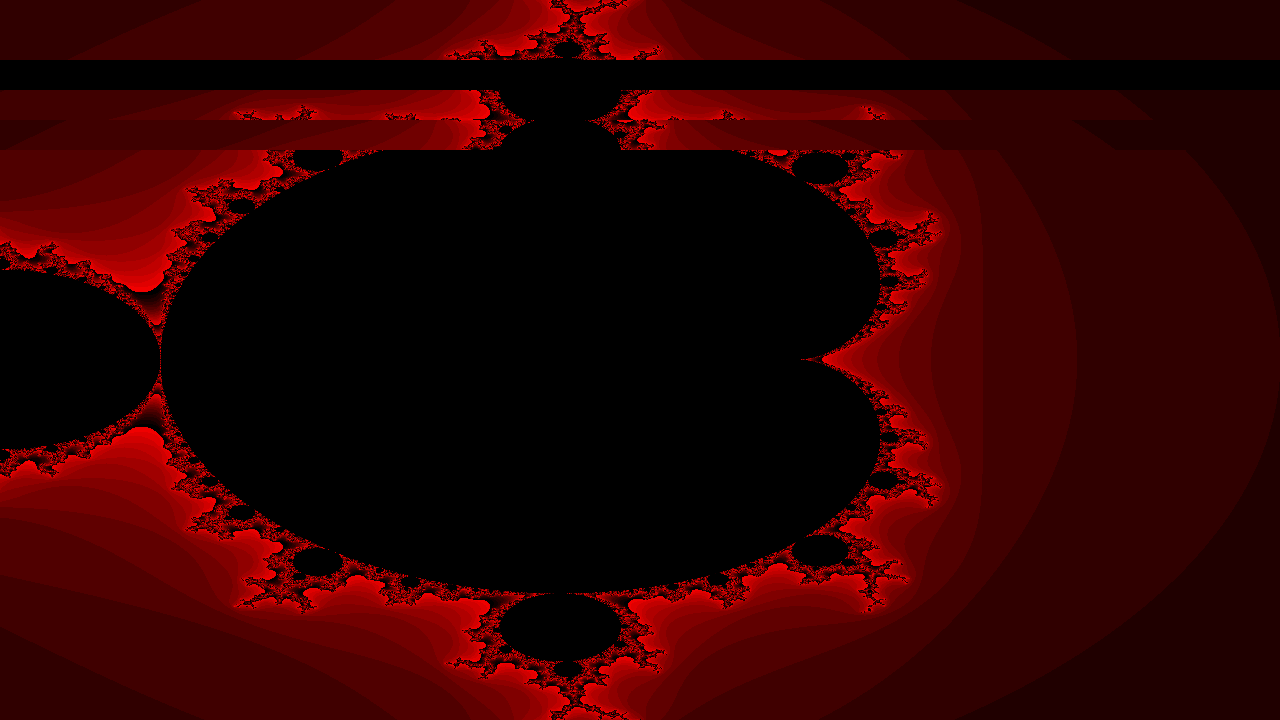
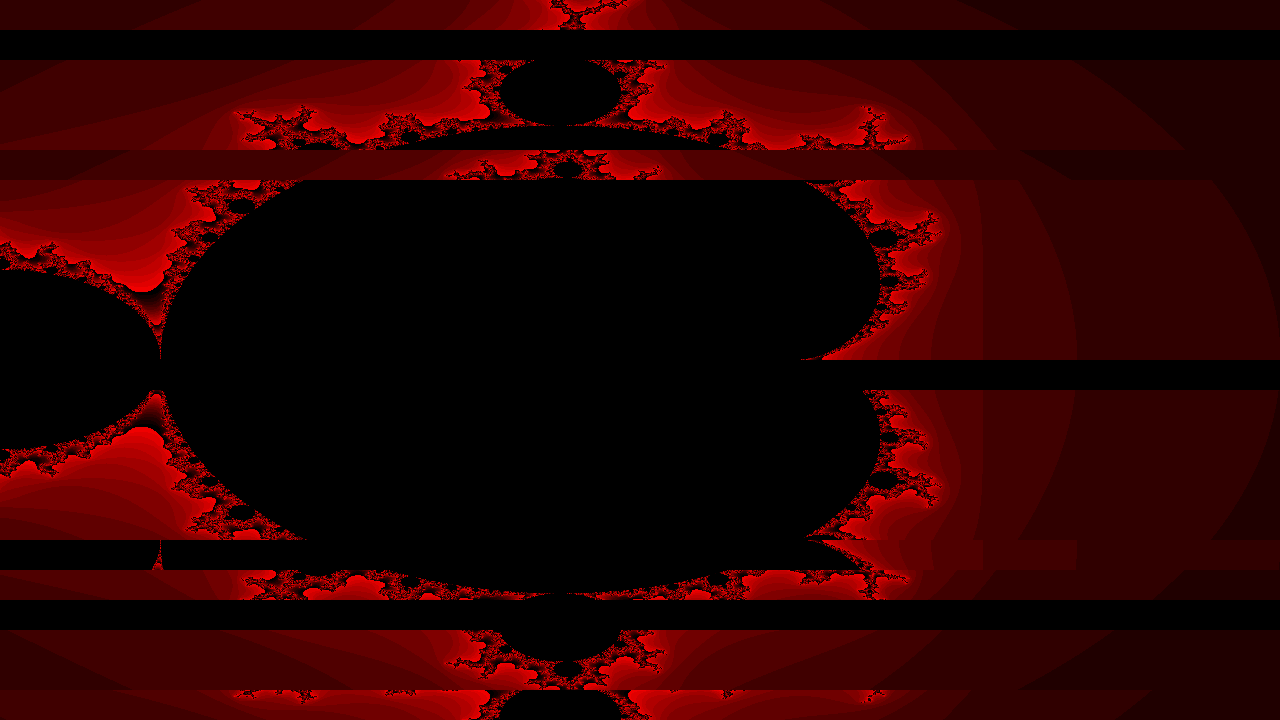
bugs

diff --git a/ms_hybrid.c b/ms_hybrid.c
@@ -46,7 +46,7 @@ double left, right;
 double lower, upper;
 int width, height;
 char* filename;
-unsigned char* line_png;
+png_bytep line_png;
 
 void write_png(const char* filename, const int width, const int height, const int* buffer) {
     FILE* fp = fopen(filename, "wb");
@@ -181,8 +181,8 @@ inline void worker(){
 
 // tag = 1: task signal
 // tag = -1: end signal
-inline void manager(){
-    int *image = (int*)malloc(width * height * sizeof(int));
+inline void manager(int *image){
+    //int *image = (int*)malloc(width * height * sizeof(int));
     int *worker_list = (int*)malloc(world_size*2 * sizeof(int));
 
     assert(image);
@@ -261,9 +261,9 @@ inline void manager(){
                 printf("Rank %d-%d: receive rank %d task(%d +%d)\n", world_rank, omp_get_thread_num(), wrank, off, size);
 #endif
 
-                #pragma omp parallel sections num_threads(2) shared(remain_pixel, done_pixel, current_pixel, worker_list, total_pixel, line_png, image)
+                //#pragma omp parallel sections num_threads(2) shared(remain_pixel, done_pixel, current_pixel, worker_list, total_pixel, line_png, image)
                 {
-                    #pragma omp section
+                    //#pragma omp section
                     {
                         if (remain_pixel > 0){
                             #pragma omp critical
@@ -289,15 +289,15 @@ inline void manager(){
 #endif
                         }
                     }
-                    #pragma omp section
-                    {
+                    //#pragma omp section
+                    //{
 #ifdef __DEBUG__
-                        printf("Rank %d-%d: transfer to image(%d +%d)\n", world_rank, omp_get_thread_num(), off, size);
+                      //  printf("Rank %d-%d: transfer to image(%d +%d)\n", world_rank, omp_get_thread_num(), off, size);
 #endif
-                        for(int n=off;n<off+size;++n){
-                            line_png[n*3] = ((image[n] & 0xf) << 4); 
-                        }
-                    }
+                      //  for(int n=off;n<off+size;++n){
+                       //     line_png[n*3] = ((image[n] & 0xf) << 4); 
+                        //}
+                    //}
                 }
             }//if tag
         }while(done_pixel < total_pixel);
@@ -305,7 +305,7 @@ inline void manager(){
     }
 
     free(worker_list);
-    free(image);
+    //free(image);
 #ifdef __DEBUG__
     printf("Rank %d: all tasks done\n", world_rank);
 #endif
@@ -360,20 +360,23 @@ int main(int argc, char **argv){
     if(world_rank != 0){
         worker();
     }else{
+        omp_set_nested(1);
         // create image
-        line_png = (unsigned char*)malloc(total_pixel * 3);
+        line_png = (png_bytep)malloc(total_pixel * 3 * sizeof(png_byte));
+        int *image = (int*)malloc(total_pixel*sizeof(int));
 #ifdef __DEBUG__
         printf("Rank %d: line png size %d\n", world_rank, total_pixel * 3);
 #endif
         assert(line_png);
-        manager();
+        manager(image);
 
 #ifdef __DEBUG__
         printf("Rank %d: write to image %s\n", world_rank, filename);
 #endif
 
-        //write_png(filename, width, height, image);
-
+        write_png(filename, width, height, image);
+        free(image);
+        /*
         FILE* fp = fopen(filename, "wb");
         assert(fp);
         png_structp png_ptr = png_create_write_struct(PNG_LIBPNG_VER_STRING, NULL, NULL, NULL);
@@ -394,9 +397,9 @@ int main(int argc, char **argv){
         png_write_image(png_ptr, rf);
         png_write_end(png_ptr, NULL);
         png_destroy_write_struct(&png_ptr, &info_ptr);
-        fclose(fp);
+        fclose(fp);*/
         free(line_png);
-        free(rf);
+        //free(rf);
 
     }
 
